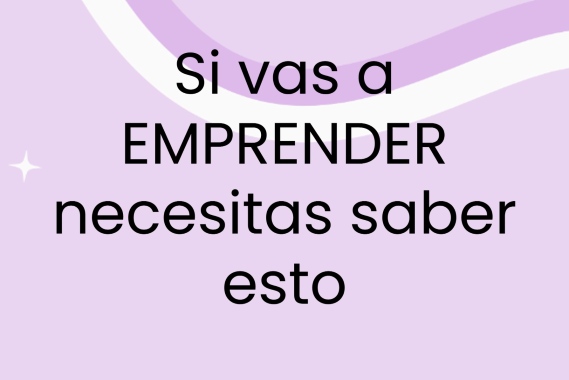
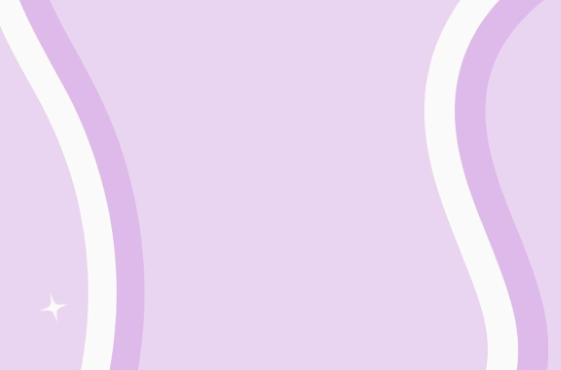
Sección comentarios terminada

diff --git a/css/style.css b/css/style.css
@@ -269,6 +269,7 @@ nav.navegacion{
 
 /* Fin seguinos en nuestras redes */
 
+
 .contame{
     border: #ead5f1 1px solid;
     display: inline-block;
@@ -276,7 +277,10 @@ nav.navegacion{
     left: 877px;
     padding: 10px;
     background-color: #ead5f1;
-    border-radius: 10px;       
+    border-radius: 10px;
+    margin-top: 15px;
+    margin-bottom: 15px;
+    display: block;
 }
 
 .contame a{
@@ -323,6 +327,51 @@ nav.navegacion{
 }
 
 /* Fin servicios */
+
+/* Sección comentarios de Emprendedores */
+
+.opiniones h2{
+    margin: 20px;
+}
+
+.opiniones .contenedor-opiniones{
+    display: flex;
+    align-items: center;
+    justify-content: center;
+    flex-wrap: wrap;
+    gap: 16px;
+}
+
+.caja-opinion{
+    border: 1px solid rgba(0, 0, 0, 0.2);
+    width: 400px;
+    height: 200px;
+    text-align: center;
+    position: relative;
+    box-shadow: 0 .8px 16px rgba(0, 0, 0, 0.1);
+}
+
+.caja-opinion .comentario{
+    font-size: 1.0rem;
+    font-weight: bold;
+    padding: 10px;
+    margin: 5px;
+}
+
+.caja-opinion .usuario h3{
+    font-size: 1.2rem;
+    font-weight: bold;
+    padding: 10px;
+    background-color: #ead5f180;
+}
+
+.caja-opinion .puntuacion i{
+    font-size: 1.5rem;
+}
+
+
+/* Fin Sección comentarios de Emprendedores */
+
 
 .contactame{
     width: 60%;
@@ -390,7 +439,7 @@ nav.navegacion{
 
 .mapa iframe{
     position: relative;
-    left: 500px;
+    left: 355px;
     margin-top: 50px;
     margin-bottom: 40px;
     top: 30px;
@@ -415,9 +464,6 @@ nav.navegacion{
     "tip3 imgtip3";
 }
 
-.tip1, .tip2, .tip3, .imgtip1, .imgtip2, .imgtip3 {
-    /* border: 1px solid; */
-} 
 
 .tip1{
     grid-area: tip1;
@@ -473,6 +519,16 @@ nav.navegacion{
     justify-content: center;
     position: relative;
     top: 5px;
+    
+}
+
+.imgtip2 p{
+    position: absolute;
+    font-size: 2.5rem;
+    font-weight: bold;
+    text-align: center;
+    width: 50%;
+    
 }
 
 .imgtip3{
@@ -502,10 +558,6 @@ nav.navegacion{
     "imginfo2"
     "info3"
     "imginfo3";
-}
-
-.info1, .info2, .info3, .imginfo1, .imginfo2, .imginfo3 {
-    /* border: 1px solid; */
 }
 
 
@@ -564,9 +616,6 @@ nav.navegacion{
     flex-wrap: wrap;  
 }
 
-.galeria1, .galeria2, .galeria3, .galeria4 {
-    /* border: 1px solid; */
-}
 
 .galeria1 img{
     margin-left: 5px;
@@ -607,7 +656,7 @@ nav.navegacion{
 
     .contame{
         left: 626px;
-
+ 
     }
 
     .tips-container{
@@ -685,11 +734,13 @@ nav.navegacion{
     .imgtip1, .imgtip2, .imgtip3{
         margin-bottom: 50px;
     }
+    
 
     .imgtip2 img{
         position: relative;
         top: -25px;
     }
+
 
     .tip3{
         position: relative;
@@ -749,15 +800,12 @@ nav.navegacion{
 /* Media queries Smartphones */
 
 @media (max-width:570px){
-    .arriba{
-        left: 140px;
-    }
 
     .contame{
-        left: 115px;
+        left: 170px;
     }
     .tips-container{
-        grid-template-rows: repeat(6,400px);
+        grid-template-rows: repeat(6,485px);
         grid-template-columns: 380px;
         grid-template-areas:
         "tip1"
@@ -769,33 +817,58 @@ nav.navegacion{
     }
 
     .tip1, .tip2, .tip3{
-        font-size: 0.7rem;
-        margin: 10px 0 10px 0;
+        font-size: 0.9rem;
+        margin: 20px 0 20px 0;
+    }
+
+    .tip1{
+        position: relative;
+        top: 35px;
     }
 
     .tip3{
         position: relative;
-        top: -60px;
+        top: -180px;
     }
 
     .imgtip1, .imgtip2, .imgtip3{
-        width: 70px;
-        position: relative;
-        left: 65px;
+        width: 100%;
         padding: 30px 0 40px 0;
+    }
+
+    .imgtip1{
+        margin-top: 90px;
+        position: relative;
+        top: 15px;
+    }
+
+    .imgtip2{
+        margin-bottom:350px;
+        width: 550px;
+        position: relative;
+        right: 70px;
     }
 
     .imgtip2 img{
         position: relative;
-        top: -60px;
-        left: 90px;
-        width: 390px;
-        height: 300px;
+        top: 10px;
+        height: 310px;
+        width: 100%;
+        padding-top: 50px;
     }
+
+
+    .imgtip2 p{
+        font-size:2rem;
+        top: 5px;
+    }
+
+    
 
     .imgtip3 img{
         position: relative;
         left: 16px;
+        top: -50px;
     }
 
     
@@ -821,7 +894,7 @@ nav.navegacion{
     }
 
     .info1, .info2, .info3{
-        font-size: 0.7rem;
+        font-size: 0.9rem;
     }
 
     .banner-container{
@@ -877,5 +950,19 @@ nav.navegacion{
     .botones{
         font-size: 0.65rem;
 
+    }
+
+    .arriba{
+        left: 195px;
+    }
+}
+
+@media (max-width:400px){
+    .arriba{
+        left: 140px;
+    }
+
+    .contame{
+        left: 115px;
     }
 }

diff --git a/index.html b/index.html
@@ -80,20 +80,59 @@
         </section>
         <!-- Fin Banner mis trabajos --> 
 
-        <!-- Emprendedores que confiaron en mi -->
-        <section>
-                <h2>Emprendedores que confiaron en mi</h2>
-            <img src="" alt="">
-            <img src="" alt="">
-            <img src="" alt="">
-            <img src="" alt="">
+        <!-- Emprendedores que confiaron en mi --> 
+        <section class="opiniones">
+            <h2>Emprendedores que confiaron en mi</h2>
+            <div class="contenedor-opiniones">
+                <div class="caja-opinion">
+                    <div class="comentario">
+                        "Me saco el sombrero con tu trabajo. Todo muy lindo, siempre es excelente! Mil Gracias 💜"
+                    </div>
+                    <div class="usuario">
+                        <h3>Marti, de Accesorios Inspírate</h3>
+                    </div>
+                    <div class="puntuacion">
+                        <i class='bx bxs-star'></i>
+                        <i class='bx bxs-star'></i>
+                        <i class='bx bxs-star'></i>
+                    </div>
+                </div>
+                <div class="caja-opinion">
+                    <div class="comentario">
+                        "La 1! Súper lindo todo lo que hace! Mis clientes aman todos los detalles que les agrego a sus compras."
+                    </div>
+                    <div class="usuario">
+                        <h3>Sol, de Homefeel aromas</h3>
+                    </div>
+                    <div class="puntuacion">
+                        <i class='bx bxs-star'></i>
+                        <i class='bx bxs-star'></i>
+                        <i class='bx bxs-star'></i>
+                    </div>
+                </div>
+                <div class="caja-opinion">
+                    <div class="comentario">
+                        "Hola mica hoy me llego el  pedido la verdad sos una recontra genia hermoso tu arte y tu manera de trabajar"
+                    </div>
+                    <div class="usuario">
+                        <h3>Gise, de Gisela Pastry</h3>
+                    </div>
+                    <div class="puntuacion">
+                        <i class='bx bxs-star'></i>
+                        <i class='bx bxs-star'></i>
+                        <i class='bx bxs-star'></i>
+                    </div>
+                </div>
+            </div>
+
+
         </section>
         <!-- Fin Emprendedores que confiaron en mi -->
 
         <!-- Boton contame tu idea, link a contacto -->
-        <div class="contame">
-            <a href="./contacto.html#contacto">Contame tu idea!</a>
-        </div>
+        <button class="contame">
+                <a href="./contacto.html#contacto">Contame tu idea!</a>
+        </button>
         <!-- Fin Boton contame tu idea, link a contacto -->
 
         <!-- Seguinos en nuestras redes -->

diff --git a/contacto.html b/contacto.html
@@ -76,7 +76,7 @@
 
         <!-- Ubicacion -->
         <section class="mapa">
-            <iframe src="https://www.google.com/maps/embed?pb=!1m18!1m12!1m3!1d3301.3100787511003!2d-58.96708272337771!3d-34.163989034410235!2m3!1f0!2f0!3f0!3m2!1i1024!2i768!4f13.1!3m3!1m2!1s0x95bb73b6d21ebb39%3A0xf2f9fb0602fb8026!2sLa%20Tarjeter%C3%ADa!5e0!3m2!1ses-419!2sar!4v1697302197836!5m2!1ses-419!2sar" width="900" height="600" style="border:0;" allowfullscreen="" loading="lazy" referrerpolicy="no-referrer-when-downgrade"></iframe>
+            <iframe src="https://www.google.com/maps/embed?pb=!1m18!1m12!1m3!1d3301.3100787511003!2d-58.96708272337771!3d-34.163989034410235!2m3!1f0!2f0!3f0!3m2!1i1024!2i768!4f13.1!3m3!1m2!1s0x95bb73b6d21ebb39%3A0xf2f9fb0602fb8026!2sLa%20Tarjeter%C3%ADa!5e0!3m2!1ses-419!2sar!4v1697302197836!5m2!1ses-419!2sar" width="1200" height="450" style="border:0;" allowfullscreen="" loading="lazy" referrerpolicy="no-referrer-when-downgrade"></iframe>
         </section>
         <!--  Fin Ubicacion -->
 

diff --git a/empretips.html b/empretips.html
@@ -71,6 +71,7 @@
             </div>
             <div class="imgtip2">
                 <img src="./img/tip2.png" alt="">
+                <p>Si vas a EMPRENDER, necesitas saber esto</p>
             </div>
             <div class="tip3">
             <h2>El packaging como inversión</h2>
